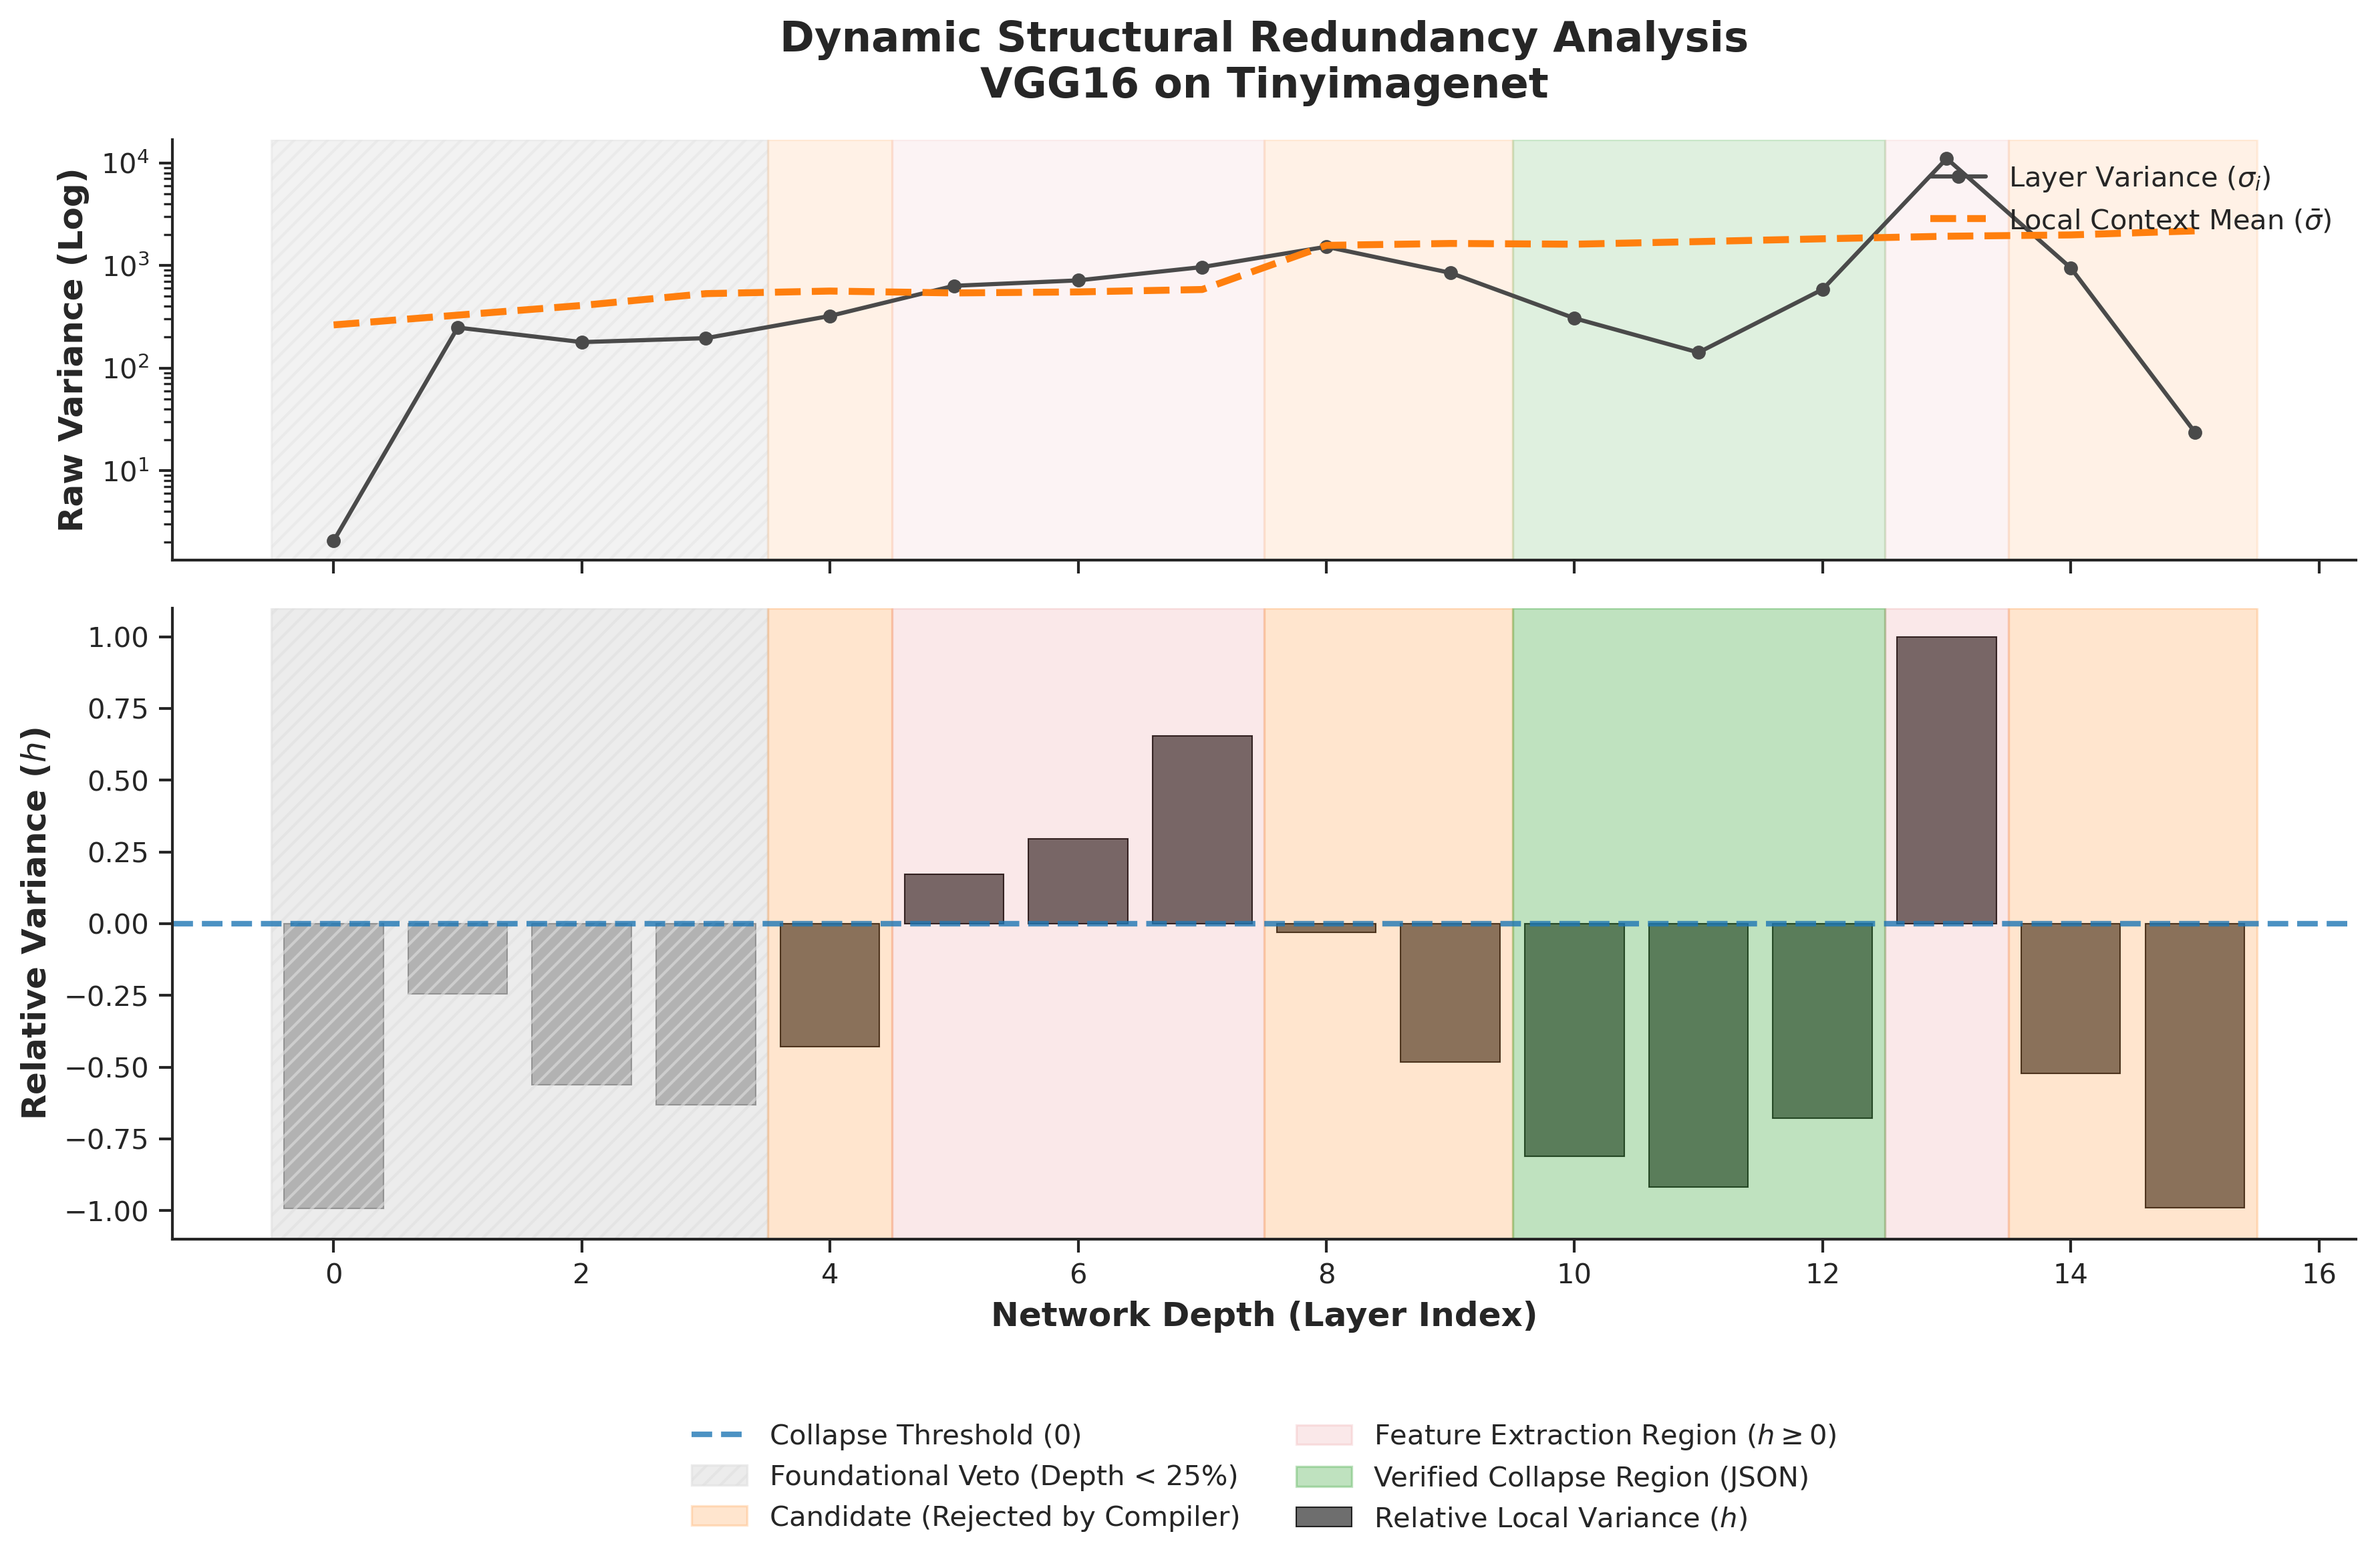
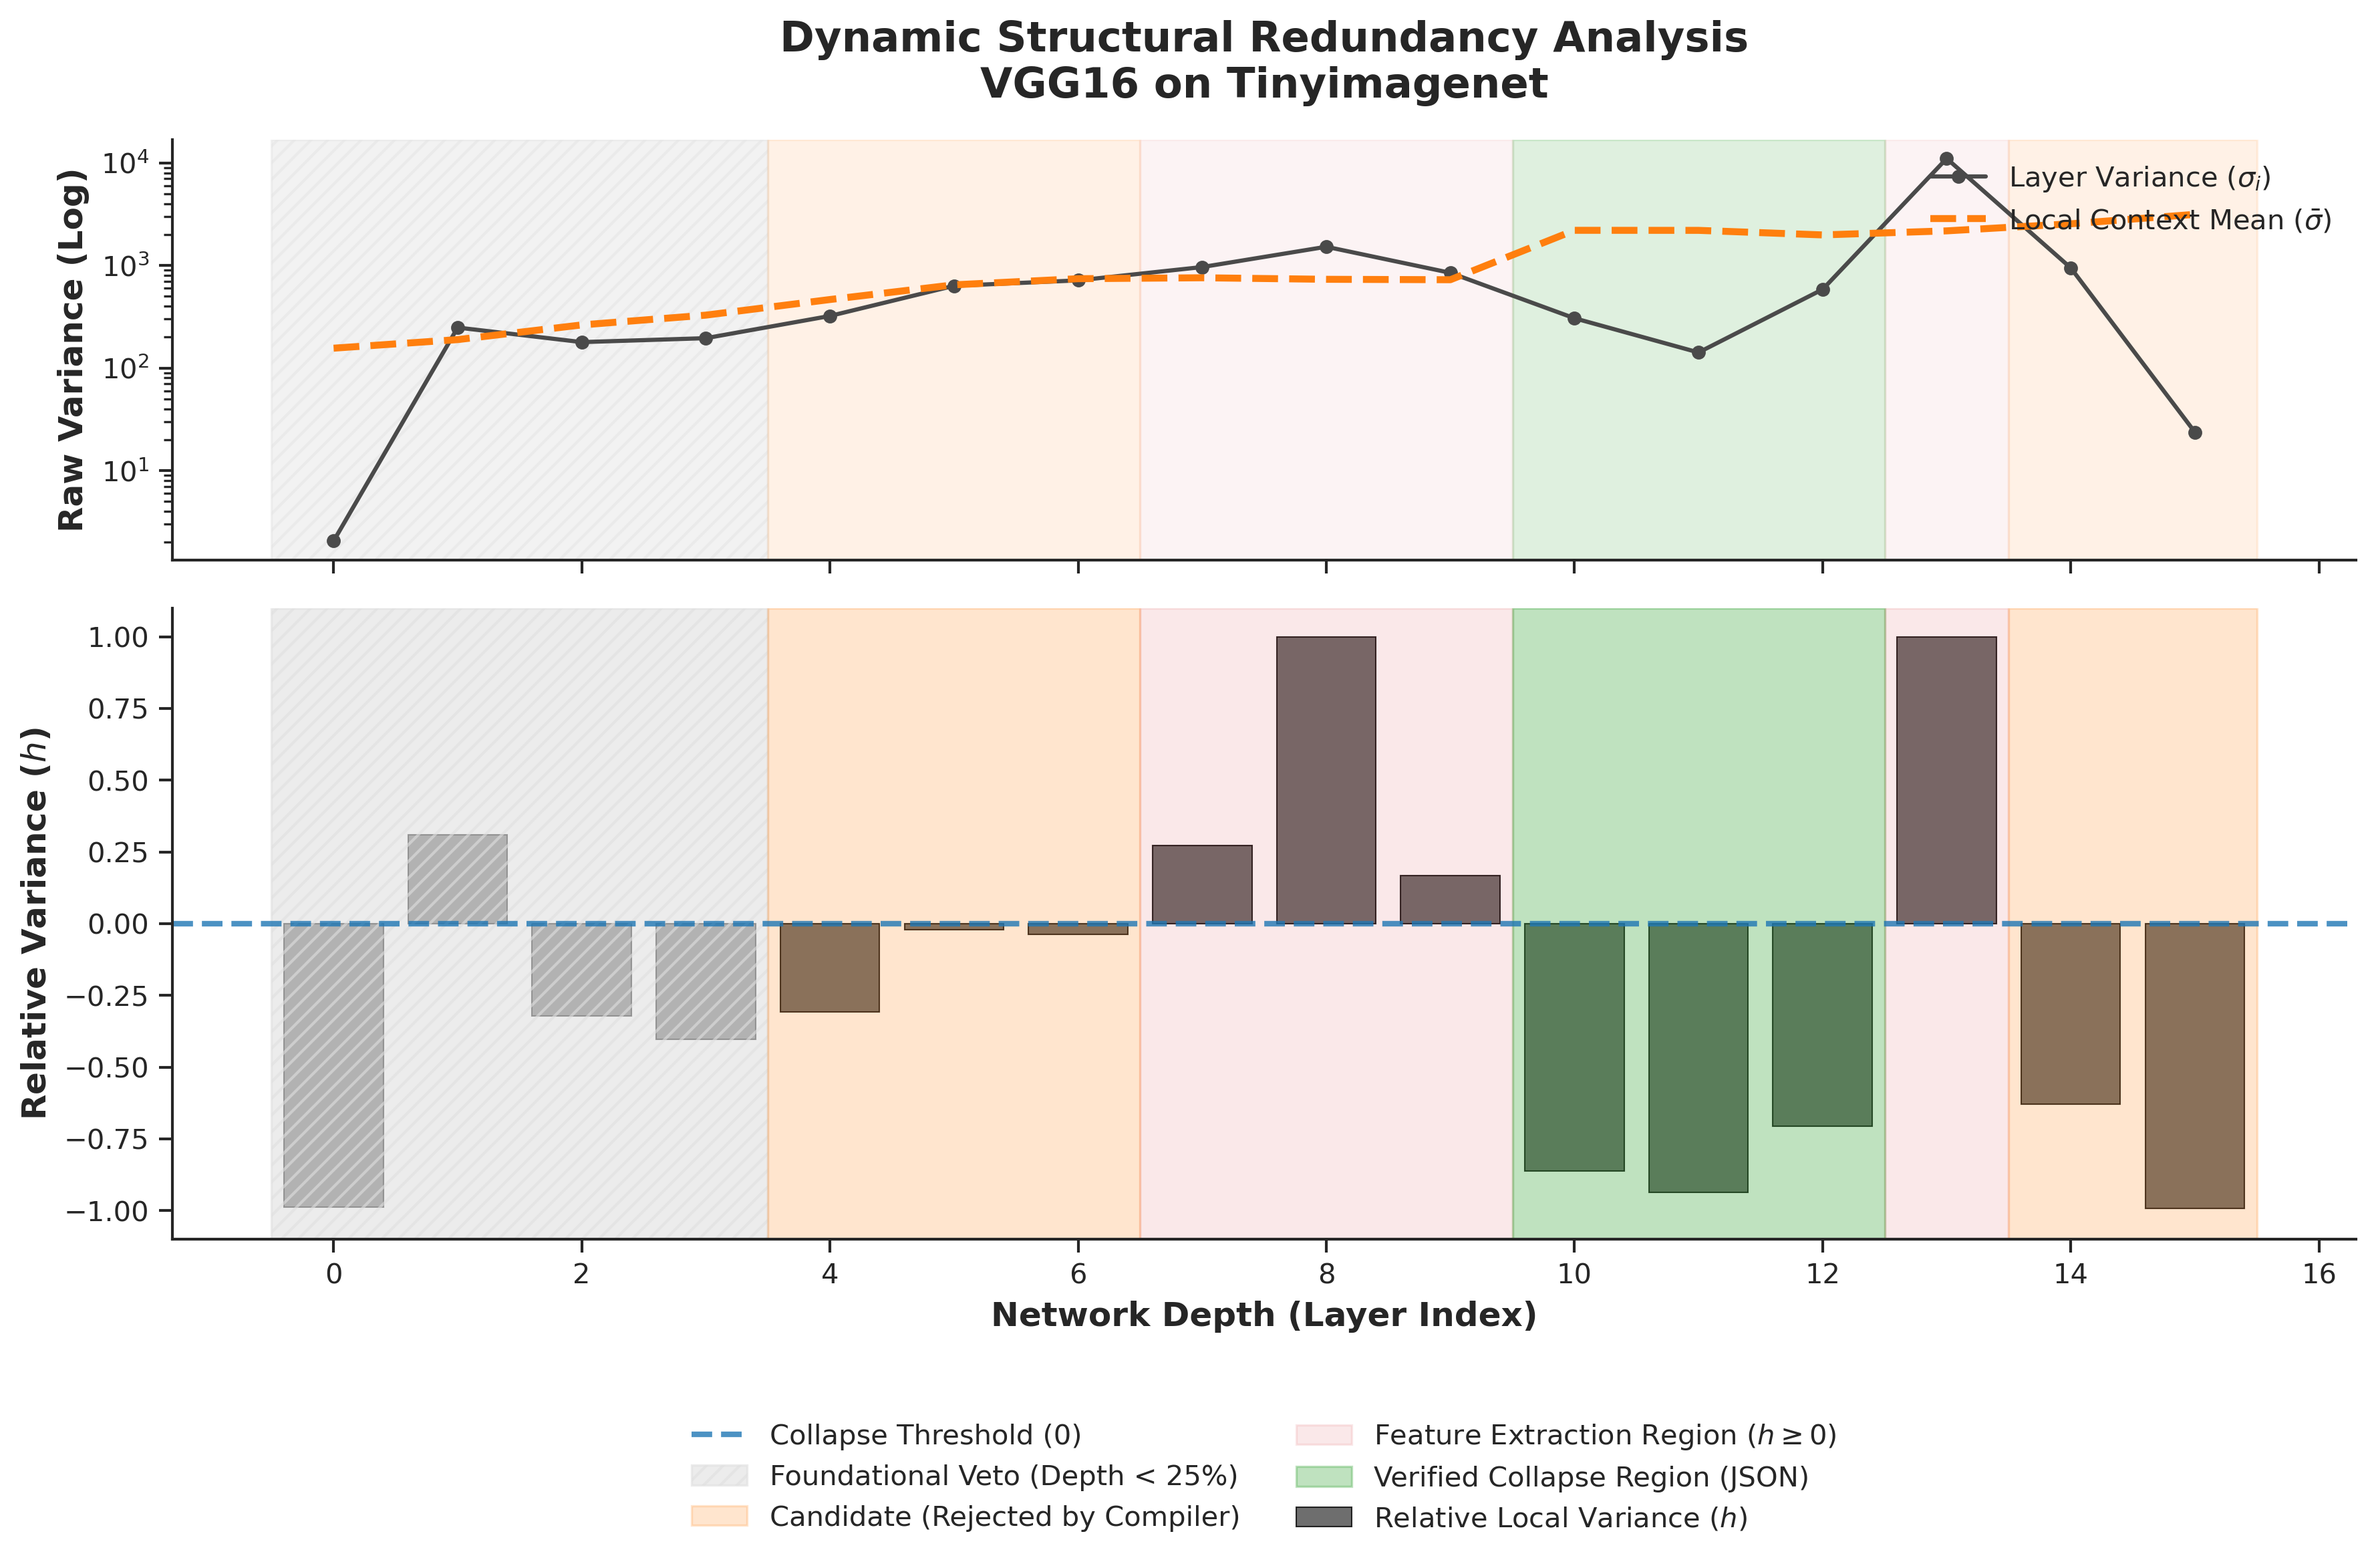
update

diff --git a/manuscript/Tranfer/figures/hardware_efficiency/XceptionNet_tinyimagenet_all_candidates.tex b/manuscript/Tranfer/figures/hardware_efficiency/XceptionNet_tinyimagenet_all_candidates.tex
@@ -1,0 +1,9 @@
+\begin{tabular}{lrrrr}
+\toprule
+Candidate Block & Delta Acc (%) & Params Red. (%) & FLOPs Red. (%) & Memory Red. (%) \\
+\midrule
+Set_8 & 33.84 & 2.49 & 2.24 & -0.69 \\
+Set_6 & 33.55 & 5.03 & 4.52 & 0.69 \\
+Set_7 & 33.15 & 2.49 & 2.24 & -0.69 \\
+\bottomrule
+\end{tabular}

diff --git a/manuscript/Tranfer/figures/hardware_efficiency/VGG16_tinyimagenet_all_candidates.tex b/manuscript/Tranfer/figures/hardware_efficiency/VGG16_tinyimagenet_all_candidates.tex
@@ -1,0 +1,8 @@
+\begin{tabular}{lrrrr}
+\toprule
+Candidate Block & Delta Acc (%) & Params Red. (%) & FLOPs Red. (%) & Memory Red. (%) \\
+\midrule
+Set_0 & 14.94 & 1.01 & 15.02 & -10.42 \\
+Set_1 & 12.39 & 10.94 & 5.57 & 0.00 \\
+\bottomrule
+\end{tabular}
